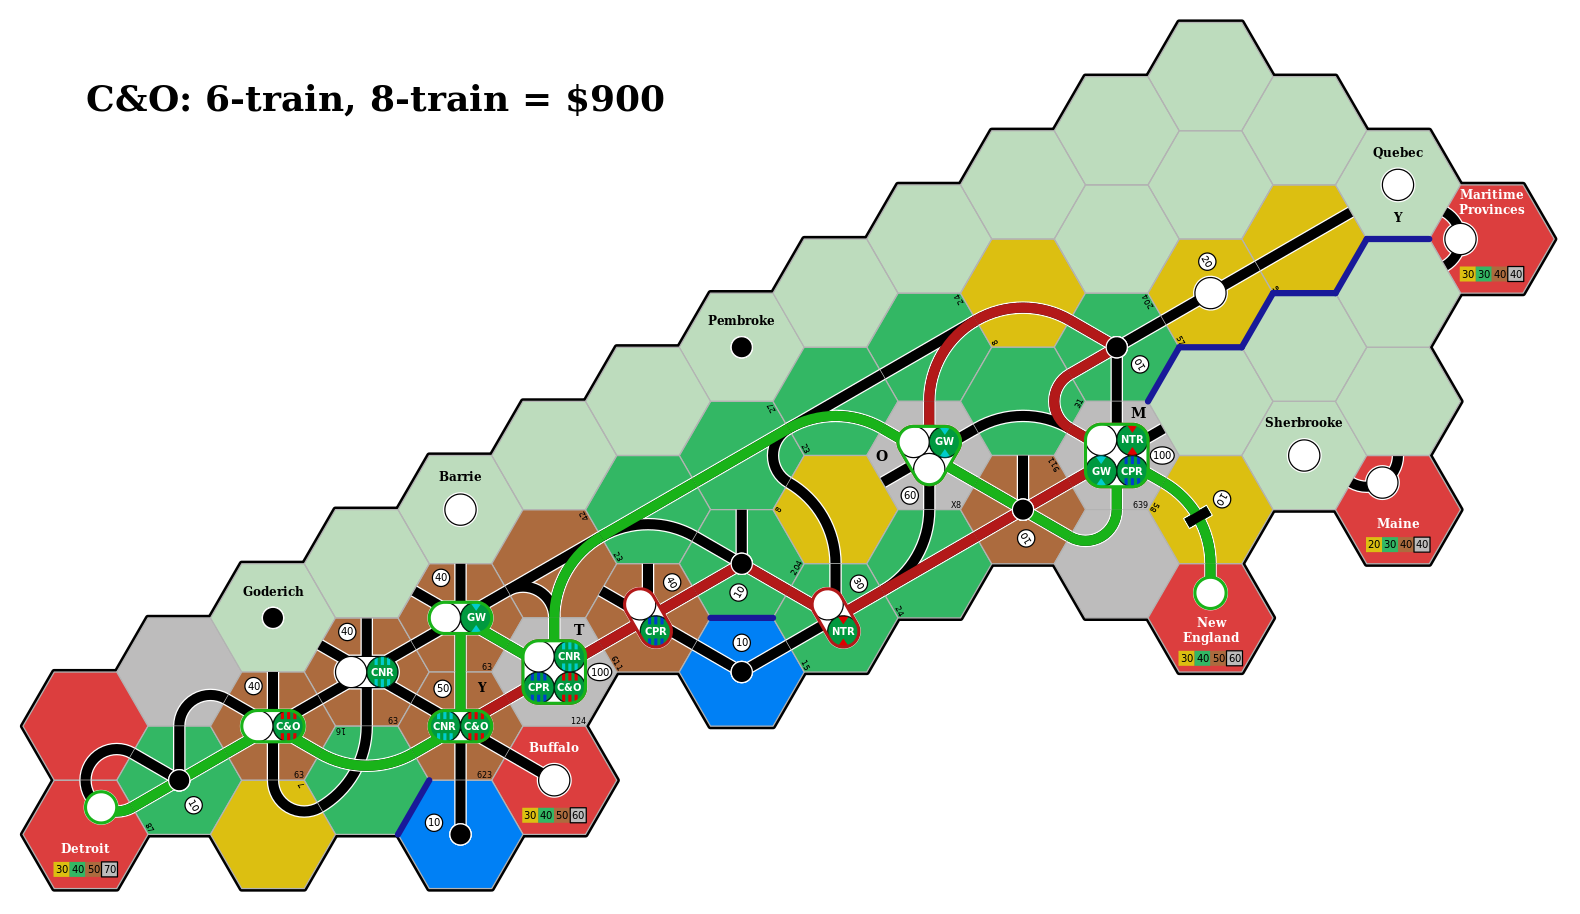
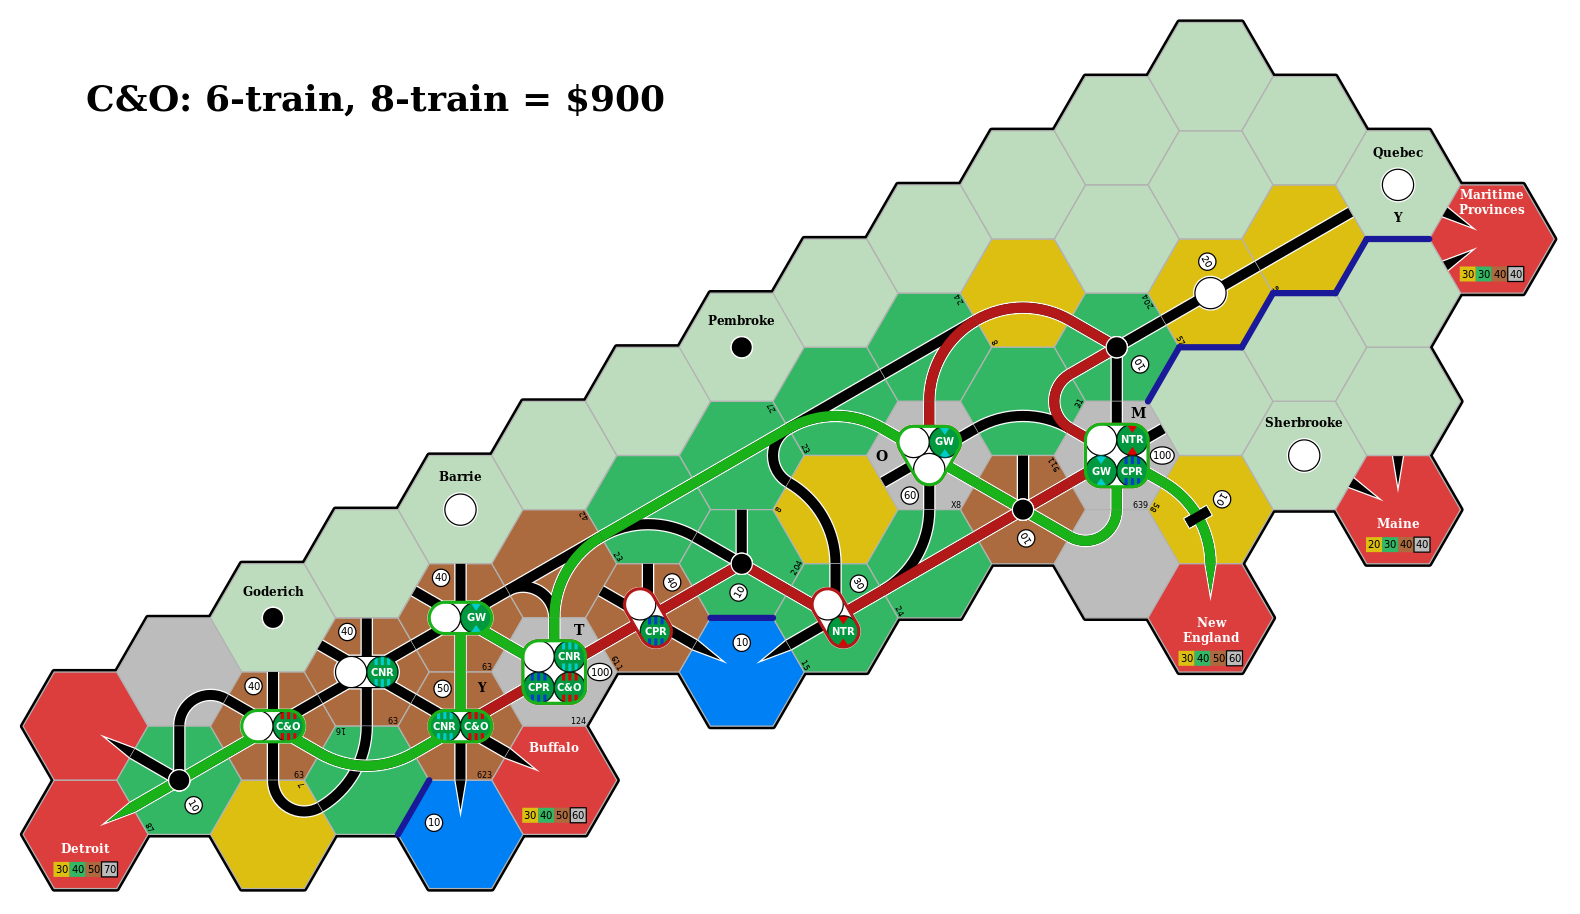
Draw 1867 off-board track as triangular segments
This modifies how the red and blue off-board tiles are drawn in 1867:
Railways of Canada.

diff --git a/crates/n18game/src/_1867.rs b/crates/n18game/src/_1867.rs
@@ -812,6 +812,7 @@ fn sault_ste_marie(hex: &Hex, suffixes: &[&str]) -> Vec<Tile> {
                 vec![City::single_at_corner(revenue, &HexCorner::Right)],
                 hex,
             )
+            .with_offboard_faces([UpperRight, LowerRight])
             .label(
                 Label::PhaseRevenue(vec![
                     (HexColour::Yellow, 20, ix == 0),
@@ -845,6 +846,7 @@ fn maritime_provinces(hex: &Hex, suffixes: &[&str]) -> Vec<Tile> {
                 vec![City::single_at_corner(revenue, &HexCorner::Left)],
                 hex,
             )
+            .with_offboard_faces([LowerLeft, UpperLeft])
             .label(
                 Label::PhaseRevenue(vec![
                     (HexColour::Yellow, 30, ix == 0),
@@ -878,6 +880,7 @@ fn maine(hex: &Hex, suffixes: &[&str]) -> Vec<Tile> {
                 vec![City::single_at_corner(revenue, &HexCorner::TopLeft)],
                 hex,
             )
+            .with_offboard_faces([UpperLeft, Top])
             .label(
                 Label::PhaseRevenue(vec![
                     (HexColour::Yellow, 20, ix == 0),
@@ -908,6 +911,7 @@ fn new_england(hex: &Hex, suffixes: &[&str]) -> Vec<Tile> {
                 vec![City::single(revenue).in_dir(Direction::N, 0.4)],
                 hex,
             )
+            .with_offboard_faces([Top])
             .label(
                 Label::PhaseRevenue(vec![
                     (HexColour::Yellow, 30, ix == 0),
@@ -938,6 +942,7 @@ fn buffalo(hex: &Hex, suffixes: &[&str]) -> Vec<Tile> {
                 vec![City::single(revenue)],
                 hex,
             )
+            .with_offboard_faces([UpperLeft])
             .label(
                 Label::PhaseRevenue(vec![
                     (HexColour::Yellow, 30, ix == 0),
@@ -971,6 +976,7 @@ fn detroit(hex: &Hex, suffixes: &[&str]) -> Vec<Tile> {
                 vec![City::single_at_corner(revenue, &HexCorner::TopRight)],
                 hex,
             )
+            .with_offboard_faces([UpperRight])
             .label(
                 Label::PhaseRevenue(vec![
                     (HexColour::Yellow, 30, ix == 0),
@@ -983,13 +989,16 @@ fn detroit(hex: &Hex, suffixes: &[&str]) -> Vec<Tile> {
             .label(Label::MapLocation(name.to_string()), off_centre(S, 0.22))
         })
         .collect();
-    tiles.push(Tile::new(
-        Red,
-        "Detroit2",
-        vec![Track::hard_l(LowerRight)],
-        vec![],
-        hex,
-    ));
+    tiles.push(
+        Tile::new(
+            Red,
+            "Detroit2",
+            vec![Track::hard_l(LowerRight)],
+            vec![],
+            hex,
+        )
+        .with_offboard_faces([LowerRight]),
+    );
     tiles
 }
 
@@ -1012,6 +1021,7 @@ fn offboard_tiles(hex: &Hex) -> Vec<Tile> {
             vec![],
             hex,
         )
+        .with_offboard_faces([Top])
         .label(Label::Revenue(0), UpperLeft.to_centre(0.25)),
         Tile::new(
             Blue,
@@ -1025,6 +1035,7 @@ fn offboard_tiles(hex: &Hex) -> Vec<Tile> {
             vec![],
             hex,
         )
+        .with_offboard_faces([UpperLeft, UpperRight])
         .label(Label::Revenue(0), Top.to_centre(0.3)),
     ];
 
